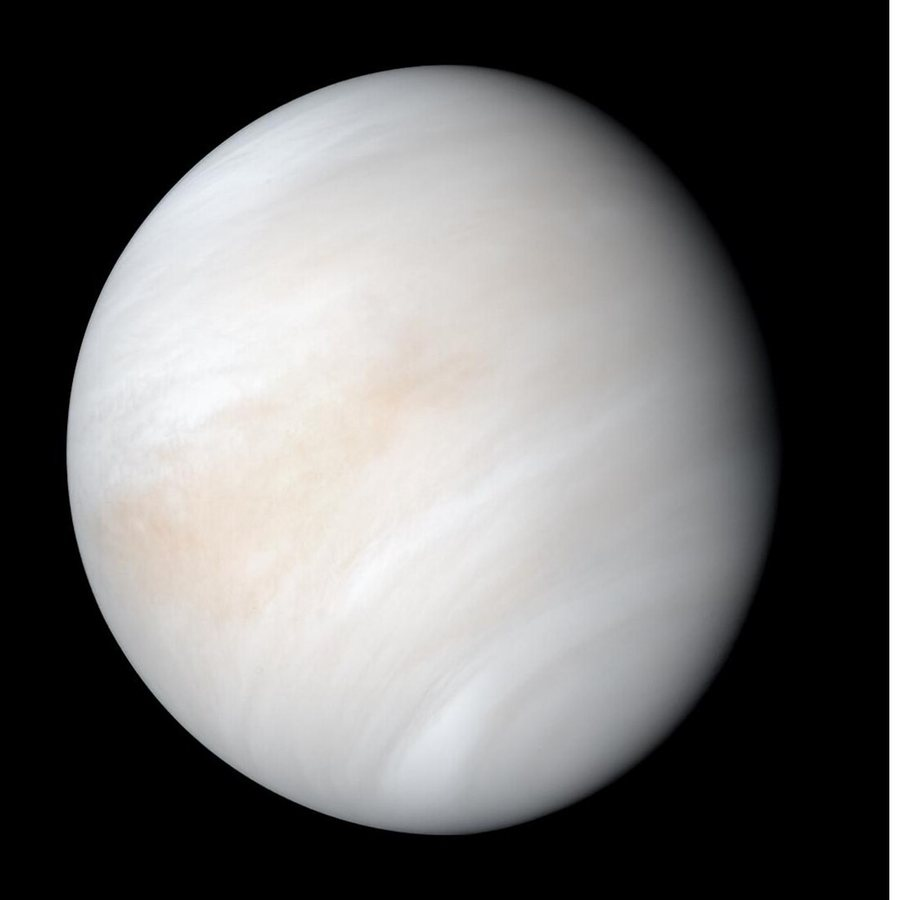
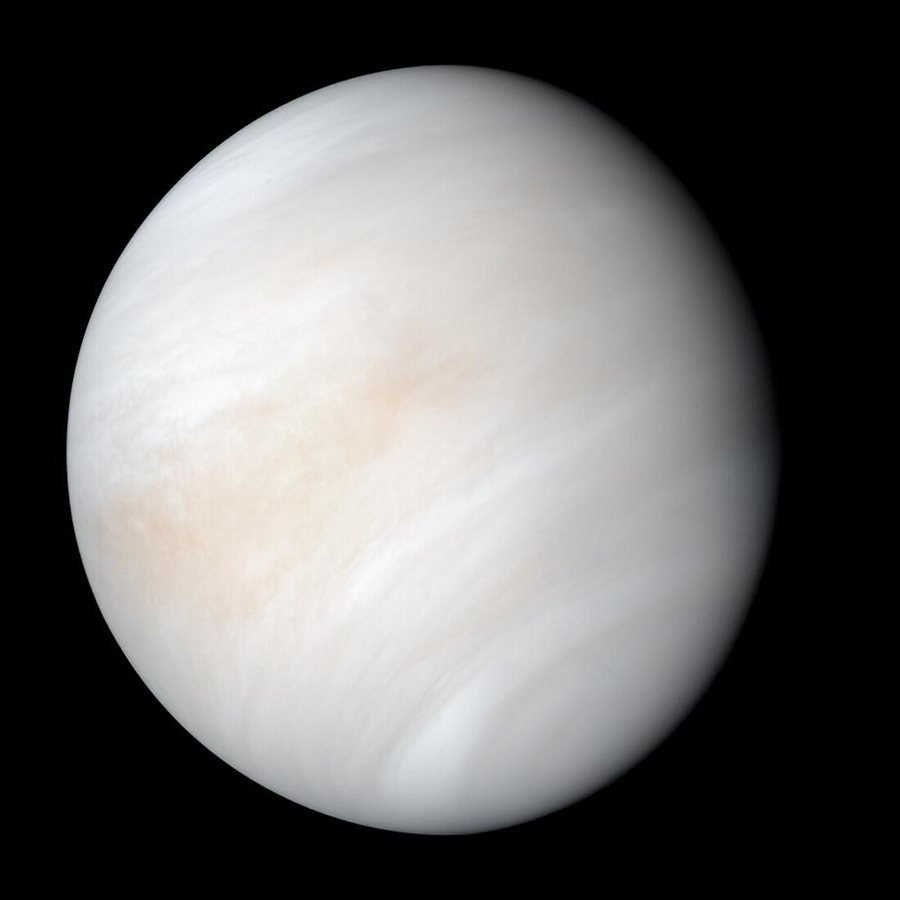
Fix planet thumbnails, widen browse pages into picture cards, add a proper site footer
Claude-Session: https://claude.ai/code/session_01Sn3b4aw7CW1Xq7Rp56DuaM

Changed region(s): [[0.9644, 0.0, 1.0, 1.0]]

diff --git a/src/styles/reading.css b/src/styles/reading.css
@@ -10,8 +10,8 @@
   --ink: #ece7dc; --ink-soft: #c4bdaf; --ink-faint: #8a8478; --accent: #e9c48a;
   --r-serif: 'Spectral', Georgia, serif; --r-mono: 'IBM Plex Mono', ui-monospace, monospace;
   --rule: rgba(236, 231, 220, .14);
-  --margin-col: 15rem; --text-col: 38rem;
-  max-width: 74rem; margin: 0 auto;
+  --margin-col: 15rem; --text-col: 42rem;
+  max-width: 80rem; margin: 0 auto;
   padding: clamp(48px, 8vw, 104px) var(--gutter) clamp(64px, 9vw, 120px);
   font-family: var(--r-serif); color: var(--ink);
 }
@@ -31,9 +31,26 @@ body:has(.reading) { background: #0b0b0c; }
 
 /* a ruled row: something short hangs in the margin, the text runs beside it */
 .row { display: grid; grid-template-columns: minmax(0, var(--margin-col)) minmax(0, var(--text-col)); gap: 1rem 4rem; padding: 2.2rem 0 2.6rem; border-top: 1px solid var(--rule); }
-.row > .hang h2 { font: italic 300 clamp(1.45rem, 2.3vw, 1.85rem)/1.15 var(--r-serif); margin: 0; }
+.row > .hang h2 { font: 400 clamp(1.5rem, 2.4vw, 1.95rem)/1.15 var(--r-serif); letter-spacing: -.01em; margin: 0; }
 .row > .hang .label { margin-top: .6rem; }
 .row > .hang .note { font: 300 .98rem/1.45 var(--r-serif); color: var(--ink-faint); margin: .5rem 0 0; }
+/* a wide row: the heading sits above, and what follows uses the whole width */
+.row.wide { grid-template-columns: minmax(0, 1fr); gap: 1.6rem; padding: 2.6rem 0 3rem; }
+.row.wide > .hang { display: flex; flex-wrap: wrap; align-items: baseline; justify-content: space-between; gap: .4rem 2rem; }
+.row.wide > .hang .note, .row.wide > .hang .about { margin: 0; max-width: 36rem; }
+.row.wide > .hang .more { font: 400 .74rem/1.4 var(--r-mono); letter-spacing: .1em; text-transform: uppercase; text-decoration: none; color: var(--accent); }
+.row.wide > .hang .more:hover { text-decoration: underline; }
+/* cards: a picture, a name and a line, used for anything you browse */
+.cards { list-style: none; margin: 0; padding: 0; display: grid; gap: 2.2rem 1.6rem; grid-template-columns: repeat(auto-fill, minmax(min(100%, var(--card-min, 16rem)), 1fr)); }
+.cards a { display: grid; gap: .7rem; align-content: start; color: var(--ink); text-decoration: none; }
+.cards .pic { display: block; position: relative; aspect-ratio: 16 / 10; overflow: hidden; background: #000; border-radius: 3px; }
+.cards .pic img { position: absolute; inset: 0; width: 100%; height: 100%; object-fit: cover; transition: transform .5s ease; }
+.cards a:hover .pic img { transform: scale(1.03); }
+.cards .kicker { font: 400 .68rem/1.4 var(--r-mono); letter-spacing: .1em; text-transform: uppercase; color: var(--ink-faint); }
+.cards .name { font: 400 1.3rem/1.22 var(--r-serif); }
+.cards a:hover .name { color: var(--accent); }
+.cards .line { font: 300 1rem/1.5 var(--r-serif); color: var(--ink-soft); margin: 0; }
+@media (prefers-reduced-motion: reduce) { .cards .pic img { transition: none; } }
 @media (min-width: 761px) { .row > .hang.sticks { position: sticky; top: calc(var(--header-h) + 1.5rem); align-self: start; } }
 
 /* running prose from Markdown */

diff --git a/src/styles/global.css b/src/styles/global.css
@@ -68,11 +68,17 @@ p { margin: 0 0 1em; max-width: 66ch; }
 .site-header { column-gap: 14px; }
 
 /* footer */
-.site-footer { border-top: 1px solid var(--line); padding: 40px var(--gutter) 56px; color: var(--ink-faint); font-size: 0.85rem; }
-.site-footer p { max-width: 80ch; }
-.site-footer .legal-links { display: flex; flex-wrap: wrap; gap: .4rem 1.4rem; margin-top: 1rem; }
-.site-footer .legal-links a { color: inherit; text-underline-offset: .18em; }
-.site-footer .legal-links a:hover { color: var(--ink, #ece7dc); }
+.site-footer { border-top: 1px solid var(--line); padding: 56px var(--gutter) 48px; color: var(--ink-faint); background: #08080a; font: 300 1rem/1.55 var(--serif); }
+.foot-grid { max-width: 80rem; margin: 0 auto; display: grid; grid-template-columns: minmax(0, 1.4fr) repeat(2, minmax(0, 1fr)); gap: 2rem 3rem; }
+.foot-mark { font: 400 1.5rem/1 var(--serif); color: var(--ink, #ece7dc); text-decoration: none; }
+.foot-brand p { margin: .8rem 0 0; max-width: 24rem; }
+.foot-col { display: grid; gap: .45rem; align-content: start; }
+.foot-h { font: 400 .7rem/1.4 var(--mono); letter-spacing: .12em; text-transform: uppercase; margin: 0 0 .3rem; color: var(--ink-faint); }
+.foot-col a { color: #c4bdaf; text-decoration: none; }
+.foot-col a:hover { color: var(--accent, #e9c48a); }
+.foot-small { max-width: 80rem; margin: 2.6rem auto 0; padding-top: 1.4rem; border-top: 1px solid var(--line); font-size: .86rem; }
+.foot-small a { color: inherit; }
+@media (max-width: 760px) { .foot-grid { grid-template-columns: 1fr 1fr; } .foot-brand { grid-column: 1 / -1; } }
 
 /* scene */
 .stage { position: relative; height: calc(100svh - var(--header-h)); min-height: 460px; overflow: hidden; }

diff --git a/src/styles/atlas.css b/src/styles/atlas.css
@@ -64,8 +64,8 @@ table.moons { width: 100%; border-collapse: collapse; font: 300 1rem/1.4 var(--r
 .vh { position: absolute; width: 1px; height: 1px; overflow: hidden; clip-path: inset(50%); white-space: nowrap; }
 
 /* The ruler. One decade is --dec tall; the layout in ruler.ts is worked out for these same sizes. */
-.chart-list li { display: grid; gap: .1rem; padding: .7rem 0; border-top: 1px solid var(--rule); }
-.chart-list li:first-child { border-top: 0; padding-top: 0; }
+.chart-list { display: grid; grid-template-columns: repeat(auto-fill, minmax(min(100%, 17rem), 1fr)); gap: 0 2.2rem; }
+.chart-list li { display: grid; gap: .2rem; align-content: start; padding: 1rem 0 1.1rem; border-top: 1px solid var(--rule); }
 .chart-list a { font: 400 1.18rem/1.3 var(--r-serif); color: var(--ink); width: fit-content; }
 .chart-list span { font: 300 .98rem/1.45 var(--r-serif); color: var(--ink-faint); }
 .ruler { position: relative; --dec: 16rem; --gap: 2.5rem; height: calc(var(--dec) * var(--top)); }
